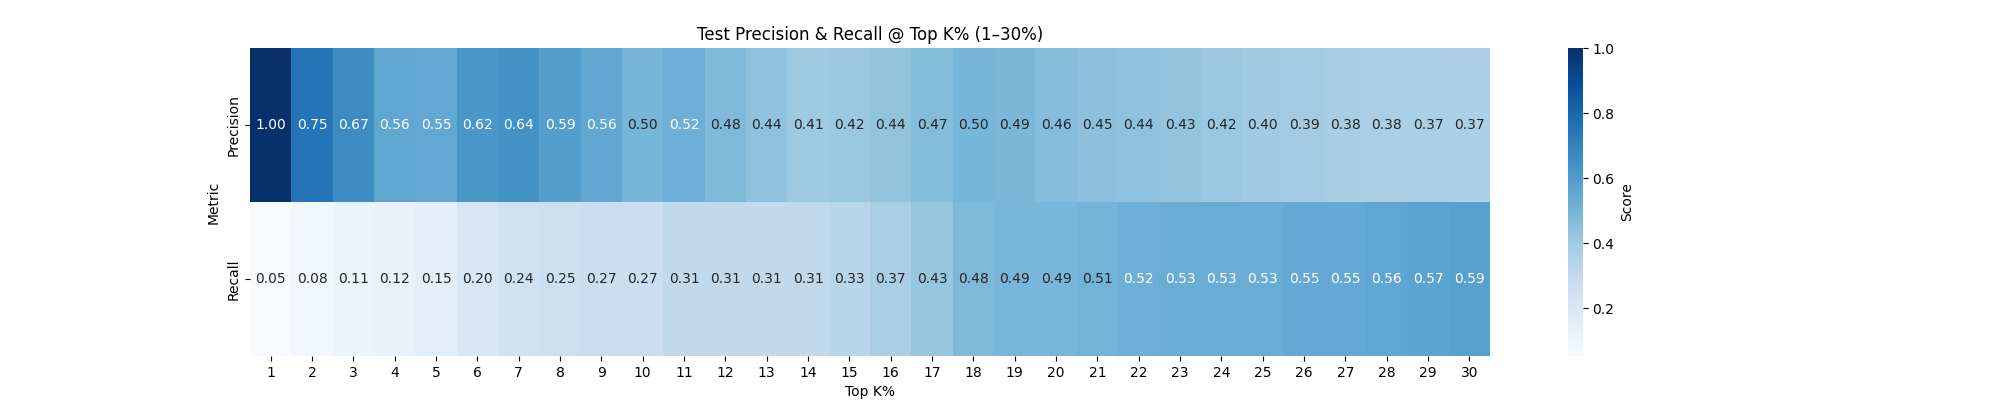
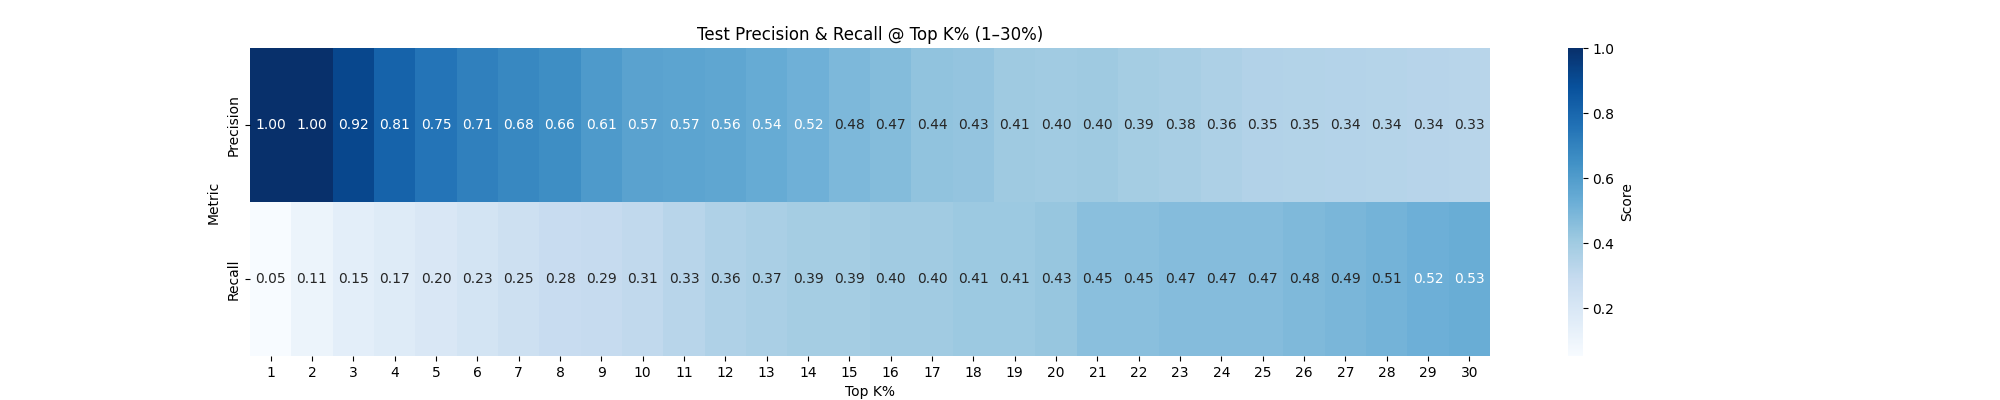
New model parameters

diff --git a/run_pipeline.py b/run_pipeline.py
@@ -3,6 +3,7 @@ import logging
 from src.config import FileArgs
 from src.model.evaluation import plot_feature_importance, plot_top_k_metrics
 from src.model.model import get_xgb_predictions, train_xgb_model
+from src.model.tune_model import tune_xgb_model
 from src.prepare_data import get_train_test_val_split, prepare_modeling_data
 
 logging.basicConfig(
@@ -14,7 +15,9 @@ logging.basicConfig(
 logger = logging.getLogger()
 
 
-def run_pipeline(args: FileArgs, feature_importance: bool = True) -> None:
+def run_pipeline(
+    args: FileArgs, tune: bool = True, feature_importance: bool = True
+) -> None:
     """
     Runs the end-to-end machine learning pipeline for customer modeling.
 
@@ -35,9 +38,14 @@ def run_pipeline(args: FileArgs, feature_importance: bool = True) -> None:
     X_train, X_val, X_test, y_train, y_val, y_test = get_train_test_val_split(
         modeling_data
     )
+    if tune:
+        params = tune_xgb_model(X_train, y_train, X_val, y_val, n_trials=1000)
+        logger.info(f"Best Hyper-parameters: {params}")
+    else:
+        params = None
 
     logger.info("Training XGBClassifier!!")
-    model = train_xgb_model(x_train=X_train, y_train=y_train)
+    model = train_xgb_model(x_train=X_train, y_train=y_train, params=params)
 
     logger.info("Getting Predictions!!")
     y_pred_train, y_pred_probs_train = get_xgb_predictions(X_train, model)
@@ -85,4 +93,4 @@ if __name__ == "__main__":
         customers_path=cus_file, non_customers_path=noncus_file, usage_path=usage_file
     )
 
-    run_pipeline(args)
+    run_pipeline(args=args, tune=False, feature_importance=True)

diff --git a/src/feature_engineering.py b/src/feature_engineering.py
@@ -405,16 +405,26 @@ def cum_actions_growth_comp_to_prev_week(data: pd.DataFrame) -> pd.DataFrame:
         pd.DataFrame: DataFrame with 'GROWTH_ACTIONS_COMPANIES_PREV_WEEK' column added.
     """
 
-    # Example: cumulative actions growth compared to previous week
     data["CONTACTS_CUM_GROWTH"] = data["CUMULATIVE_ACTIONS_CONTACTS"] / data.groupby(
         "id"
     )["CUMULATIVE_ACTIONS_CONTACTS"].shift(1).replace(0, 1)
+
+    data["DEALS_CUM_GROWTH"] = data["CUMULATIVE_ACTIONS_DEALS"] / data.groupby("id")[
+        "CUMULATIVE_ACTIONS_DEALS"
+    ].shift(1).replace(0, 1)
+
+    data["COMPANIES_CUM_GROWTH"] = data["CUMULATIVE_ACTIONS_COMPANIES"] / data.groupby(
+        "id"
+    )["CUMULATIVE_ACTIONS_COMPANIES"].shift(1).replace(0, 1)
+
     data["TOTAL_CUM_GROWTH"] = data["TOTAL_CUM_ACTIONS"] / data.groupby("id")[
         "TOTAL_CUM_ACTIONS"
     ].shift(1).replace(0, 1)
 
     data["CONTACTS_CUM_GROWTH"] = data["CONTACTS_CUM_GROWTH"].fillna(1)
     data["TOTAL_CUM_GROWTH"] = data["TOTAL_CUM_GROWTH"].fillna(1)
+    data["DEALS_CUM_GROWTH"] = data["DEALS_CUM_GROWTH"].fillna(1)
+    data["COMPANIES_CUM_GROWTH"] = data["COMPANIES_CUM_GROWTH"].fillna(1)
 
     return data
 

diff --git a/src/model/tune_model.py b/src/model/tune_model.py
@@ -36,7 +36,11 @@ def precision_at_k(
 
 
 def tune_xgb_model(
-    X_train: pd.DataFrame, y_train: pd.Series, X_val: pd.DataFrame, y_val: pd.Series
+    X_train: pd.DataFrame,
+    y_train: pd.Series,
+    X_val: pd.DataFrame,
+    y_val: pd.Series,
+    n_trials: int = 100,
 ) -> dict:
     """
     Tunes hyperparameters for an XGBoost classifier using Optuna to maximize precision at top 10%.
@@ -76,7 +80,7 @@ def tune_xgb_model(
         return prec
 
     study = optuna.create_study(direction="maximize")
-    study.optimize(objective, n_trials=100, show_progress_bar=True)
+    study.optimize(objective, n_trials=n_trials, show_progress_bar=True)
 
     logger.info(f"Best Trial: {study.best_trial.number}")
     logger.info(f"Best Precision@10%: {study.best_trial.value}")

diff --git a/src/model/model.py b/src/model/model.py
@@ -17,12 +17,12 @@ def get_xgb_model(params: Optional[dict] = None) -> xgb.XGBClassifier:
         xgb_best_params = params
     else:
         xgb_best_params = {
-            "learning_rate": 0.006496050467463248,
-            "max_depth": 5,
-            "subsample": 0.9990534611257977,
-            "colsample_bytree": 0.9083351644197917,
-            "colsample_bylevel": 0.9455249909579699,
-            "n_estimators": 298,
+            "learning_rate": 0.01398938455961057,
+            "max_depth": 2,
+            "subsample": 0.5730043632733691,
+            "colsample_bytree": 0.8647952207290815,
+            "colsample_bylevel": 0.9418830321926245,
+            "n_estimators": 535,
             "n_jobs": -1,
         }
 

diff --git a/README.md b/README.md
@@ -30,5 +30,7 @@ UV can be installed via a standalone installer or package manager.
 
 ## 🏃♂ Run the pipeline
 
+Point to the appropriate datasets in the run_pipeline.py file and run:
+
 `uv run run_pipeline.py`
 
